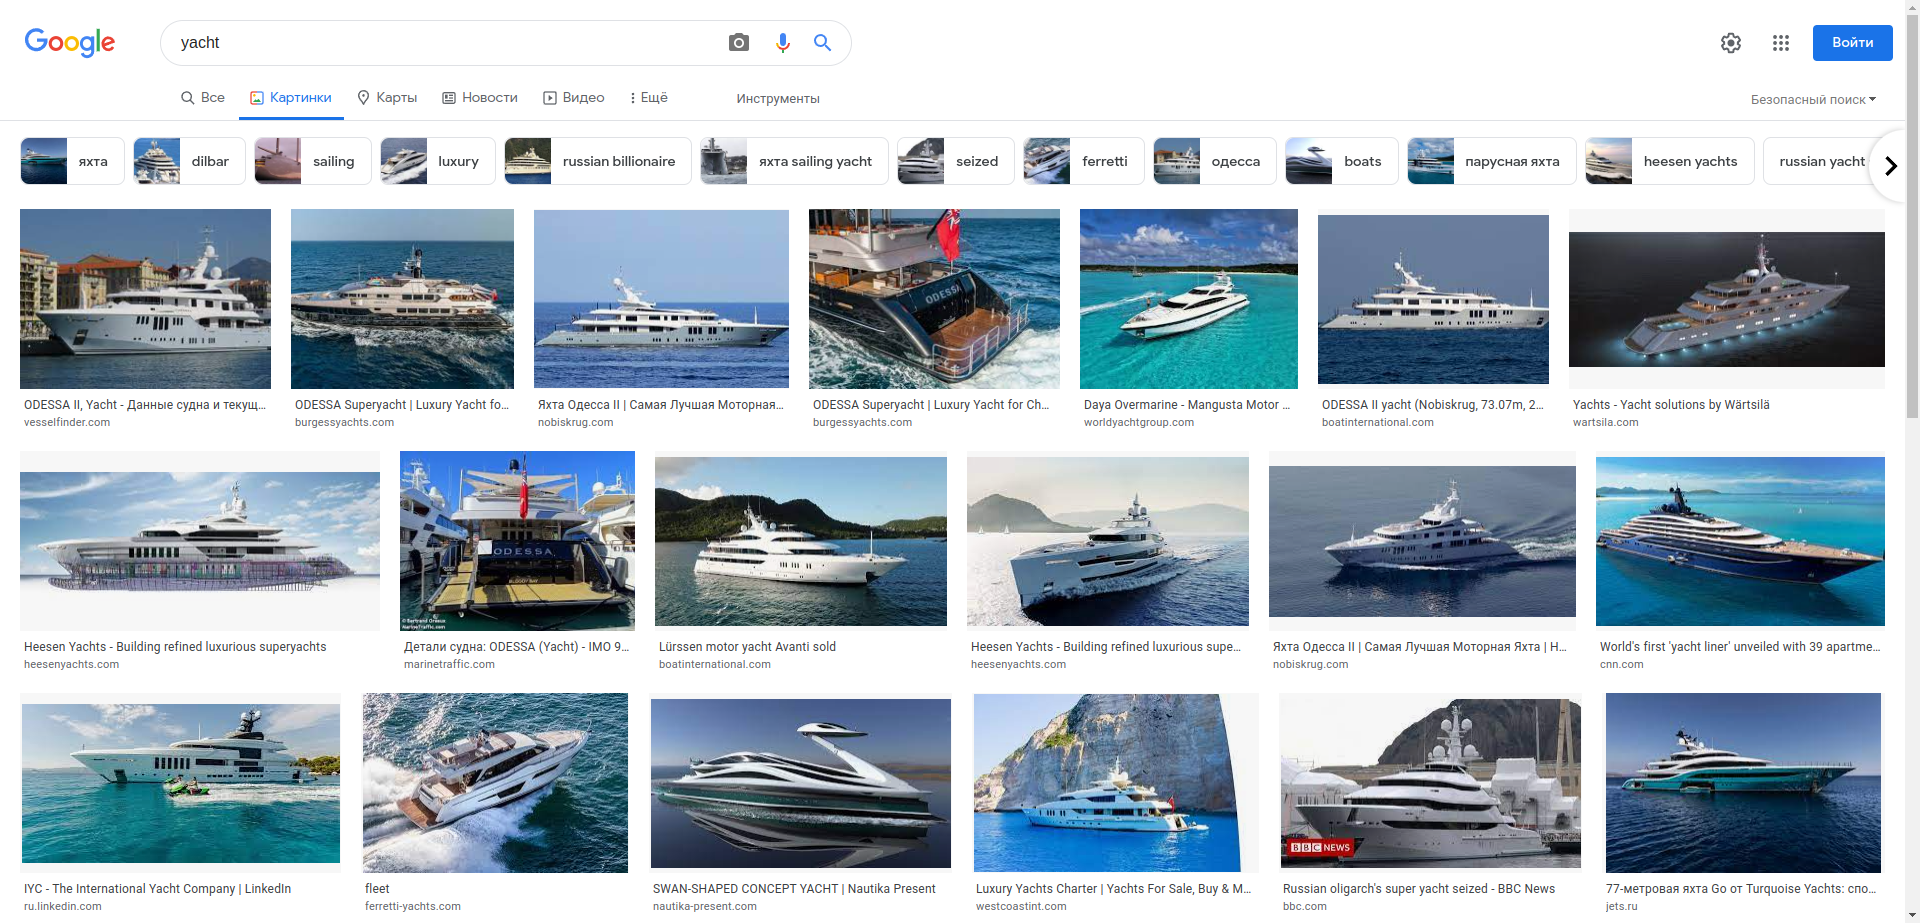
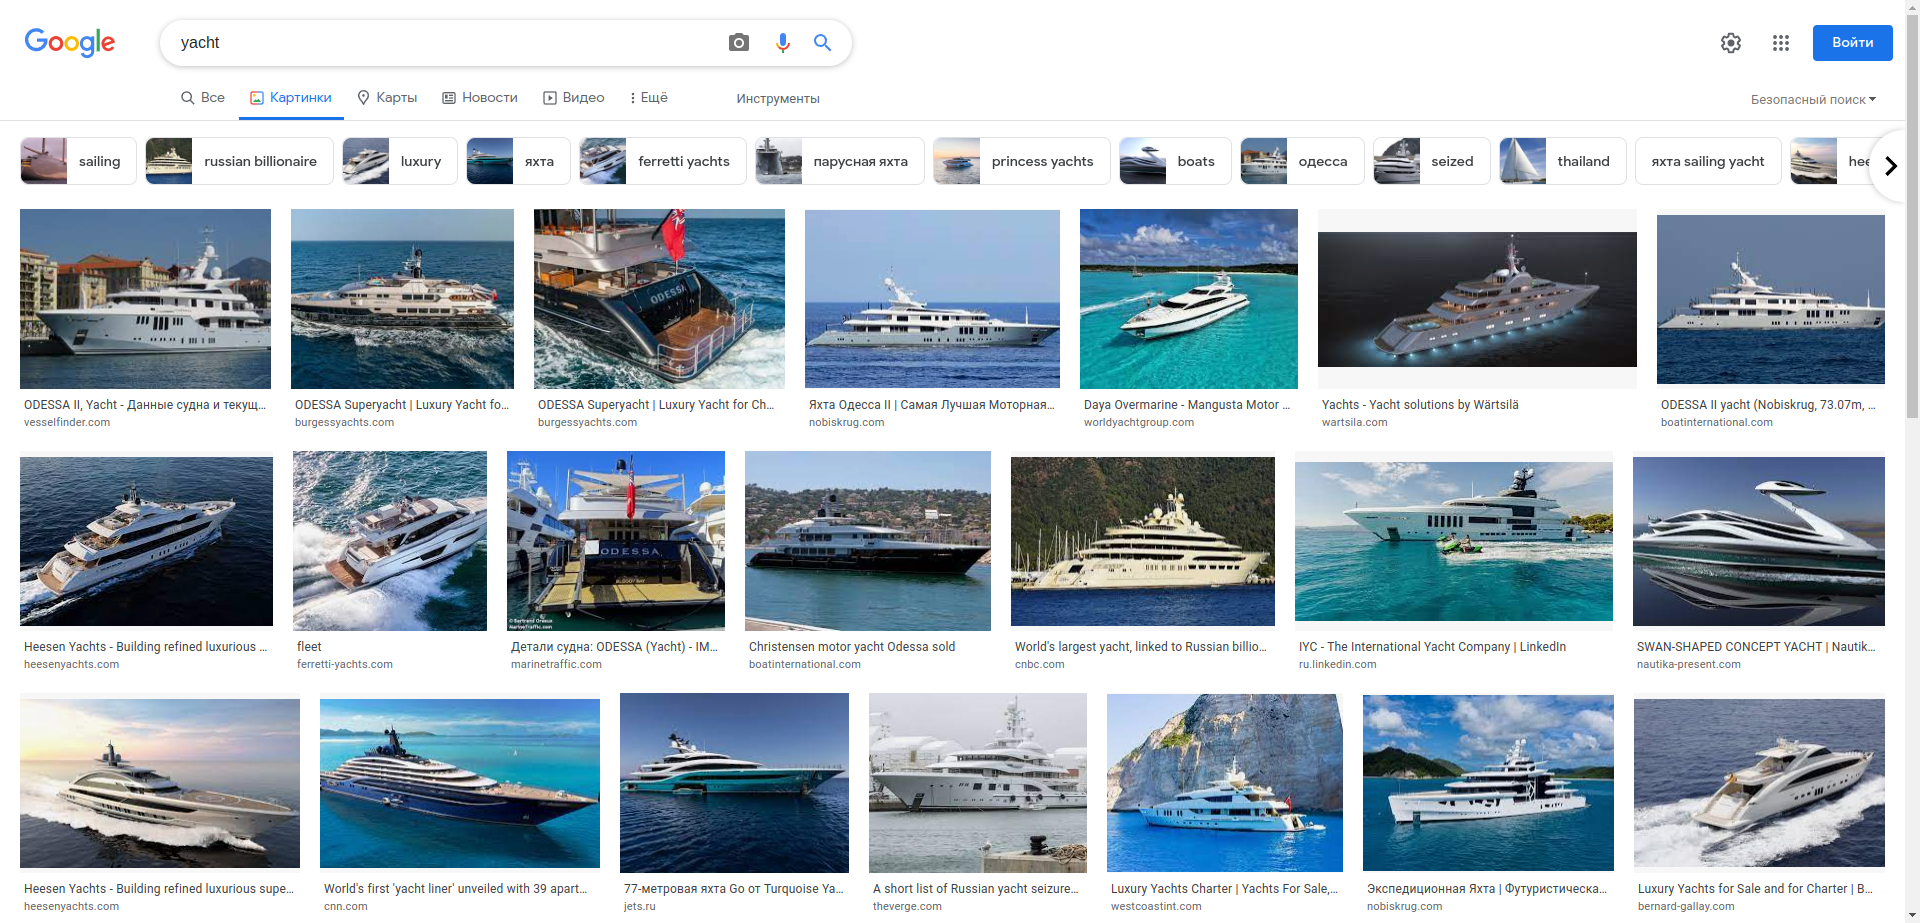
rewrite

diff --git a/src/main/java/HelloGoogle.java b/src/main/java/HelloGoogle.java
@@ -13,12 +13,12 @@ import static org.openqa.selenium.support.ui.ExpectedConditions.presenceOfElemen
 public class HelloGoogle {
     public static void main(String[] args) {
         WebDriver driver = new ChromeDriver();
-        WebDriverWait wait = new WebDriverWait(driver, Duration.ofSeconds(3));
+        WebDriverWait wait = new WebDriverWait(driver, Duration.ofSeconds(10));
         try {
             driver.manage().window().maximize();
             driver.get("https://google.com/ncr");
             driver.findElement(By.name("q")).sendKeys("yacht" + Keys.ENTER);
-            driver.findElement(cssSelector("a[data-hveid='CAIQAw']")).click();
+            driver.findElement(By.xpath("//a[text()='Images']")).click();
             File f = ((TakesScreenshot) driver).getScreenshotAs(OutputType.FILE);
             FileUtils.copyFile(f, new File("src/main/resources/screenshot01.png"));
             WebElement firstResult = wait.until(presenceOfElementLocated(cssSelector("h3")));

diff --git a/src/test/java/GoogleTest.java b/src/test/java/GoogleTest.java
@@ -28,9 +28,9 @@ public class GoogleTest {
     }
 
     @Test(priority = 1)
-    public void checkGoogle() throws IOException, InterruptedException {
+    public void checkGoogle() throws IOException {
         driver.findElement(By.name("q")).sendKeys("yacht" + Keys.ENTER);
-        driver.findElement(cssSelector("a[data-hveid='CAIQAw']")).click();
+        driver.findElement(By.xpath("//a[text()='Images']")).click();
         File f = ((TakesScreenshot) driver).getScreenshotAs(OutputType.FILE);
         FileUtils.copyFile(f, new File("src/main/resources/screenshot02.png"));
         WebElement firstResult = wait.until(presenceOfElementLocated(cssSelector("h3")));
